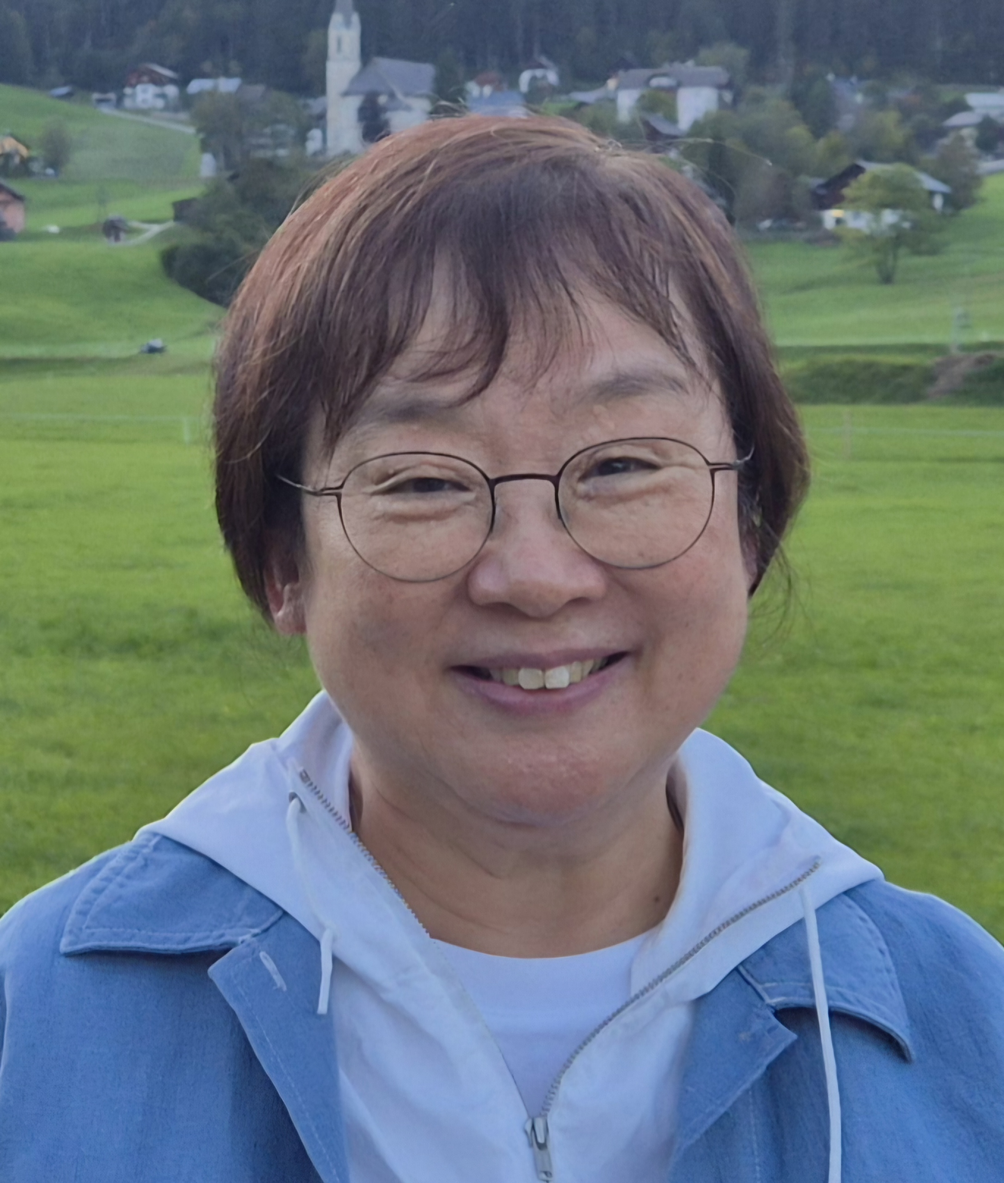
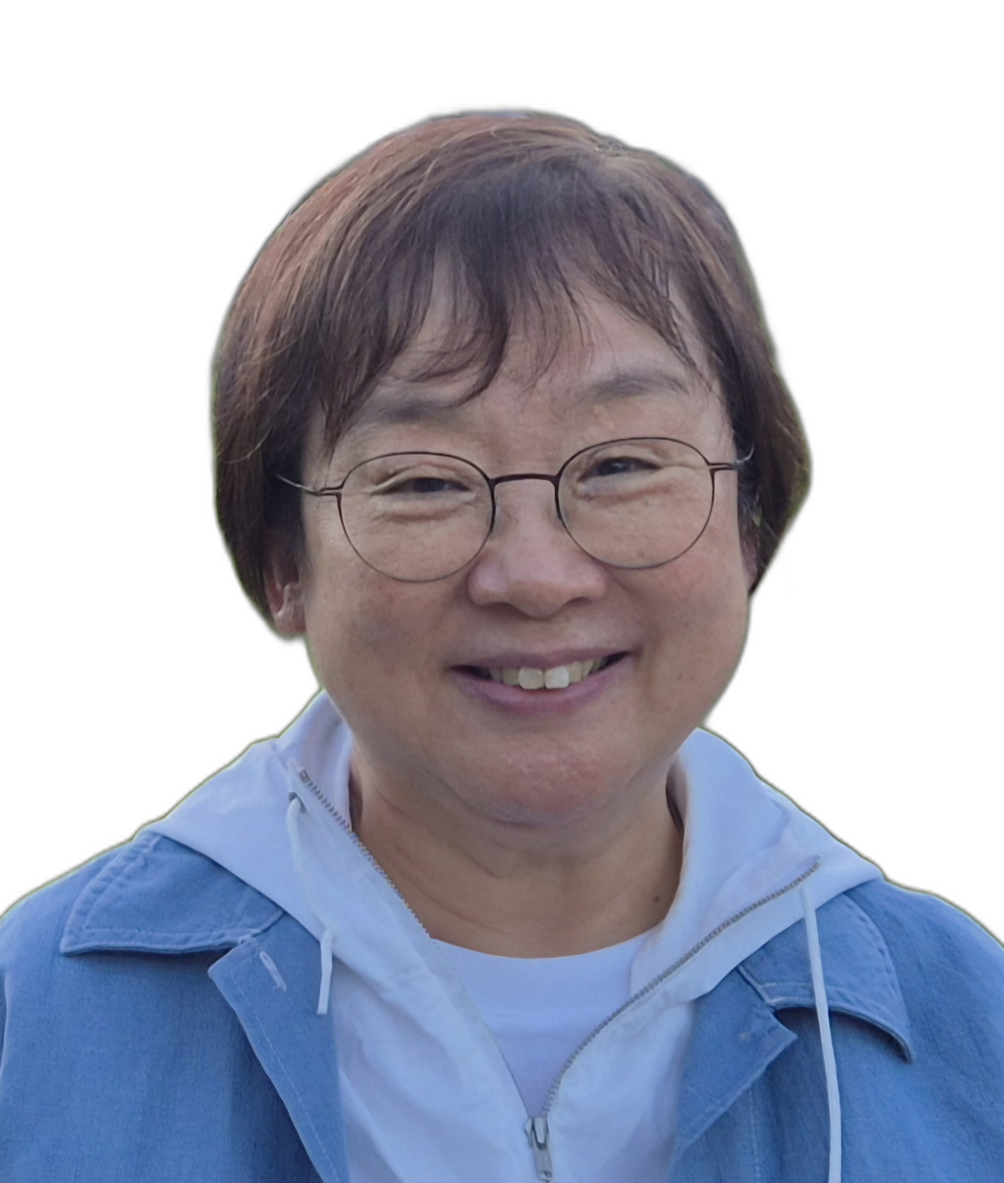
Update candidate photo for Ahn Bo-kyung: background removed and added white backdrop

diff --git a/remove_bg_and_white.py b/remove_bg_and_white.py
@@ -1,0 +1,19 @@
+from rembg import remove
+from PIL import Image
+import io
+
+input_path = "h:/내 드라이브/선거 테스트/최종후보/사진변경0312/안보경.jpg"
+output_path = "C:/Users/E/Desktop/Antigravity/vote/public/images/candidates/안보경.jpg"
+
+with open(input_path, "rb") as f:
+    input_data = f.read()
+
+output_data = remove(input_data)
+
+fg = Image.open(io.BytesIO(output_data)).convert("RGBA")
+
+bg = Image.new("RGB", fg.size, (255, 255, 255))
+bg.paste(fg, mask=fg.split()[3])
+
+bg.save(output_path, "JPEG", quality=95)
+print(f"Done: {output_path}")

diff --git a/todo.md b/todo.md
@@ -1,7 +1,7 @@
-# 작업 목표: 기호 번호(candidateNumber) 우선 정렬 로직 업데이트
+# 작업 목표: 안보경.jpg 후보자 사진의 배경을 제거하고 흰색 배경으로 변환
 
-- [V] 1. `src/app/vote/page.tsx` 내부 `filteredCandidates` 의 정렬(`.sort`) 함수 구조 파악
-- [V] 2. 두 후보 모두 `candidateNumber`를 가지고 있을 때, `candidateNumber`의 오름차순으로 우선 정렬
-- [V] 3. 한 후보만 `candidateNumber`를 가지고 있을 때, 해당 후보를 무조건 우선순위로 위로 배치
-- [V] 4. 두 후보 모두 `candidateNumber`가 없을 때, 기존처럼 득표수 또는 가나다순서 등 정렬 버튼(`sortOrder`)의 조건에 따라 폴백(Fallback) 정렬이 되도록 유지
-- [V] 5. `npm run build`를 실행하여 린트/컴파일 오류가 없고 정상 빌드되는지 확인
+- [x] 1. 파이썬 스크립트 `remove_bg_and_white.py` 작성
+- [x] 2. 스크립트 내에서 `rembg` 라이브러리를 사용하여 주어진 이미지(`h:\내 드라이브\선거 테스트\최종후보\사진변경0312\안보경.jpg`)의 배경 제거
+- [x] 3. 배경이 제거된 투명(RGBA) 이미지를 흰색 배경(RGB) 이미지 위에 합성
+- [x] 4. 변환된 최종 이미지를 프로젝트의 `public\images\candidates\안보경.jpg` 경로에 저장 (기존 이미지 덮어쓰기)
+- [x] 5. 파이썬 명령어를 통해 생성한 스크립트를 실행하고 정상 처리 여부를 확인 (필요시 CLI에서 `rembg` 명령어 직접 사용 및 파일 덮어쓰기 로직 적용 가능)
